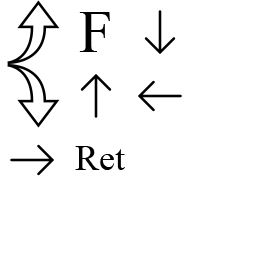
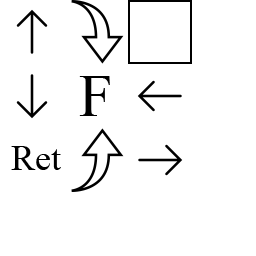
dev

diff --git a/WarBot/AJControlVew.m b/WarBot/AJControlVew.m
@@ -23,6 +23,7 @@
         
         self.available = [NSMutableArray array];
         self.program = [NSMutableArray array];
+        self.intermediateCommand = nil;
         
         self.touchEnabled = YES;
     }
@@ -45,6 +46,12 @@
         CCSprite *commandSprite = [self getCommandSprite: command];
         commandSprite.position = position;
         
+        NSMutableDictionary *commandTMP = [[NSMutableDictionary alloc] initWithCapacity:2];
+        [commandTMP setObject:command forKey:@"command"];
+        [commandTMP setObject:commandSprite forKey:@"sprite"];
+        
+        [self.program addObject:commandTMP];
+        
         [self addChild:commandSprite z:1 tag:1002];
 
     }
@@ -58,7 +65,7 @@
     for (int i = 0; i < prog.count; i++) {
         
         xOffset = (i % DEFAULT_COLS) * DEFAULT_CELL_SIZE + DEFAULT_CELL_SIZE / 2;
-        yOffset = (i / DEFAULT_COLS) * DEFAULT_CELL_SIZE + DEFAULT_CELL_SIZE / 2 + (self.gameManager.programField.commands.count / DEFAULT_COLS + 1) * DEFAULT_CELL_SIZE;
+        yOffset = (i / DEFAULT_COLS) * DEFAULT_CELL_SIZE + DEFAULT_CELL_SIZE / 2 + (self.gameManager.programField.commands.count / DEFAULT_COLS + 1) * DEFAULT_CELL_SIZE + 20;
         
         CGPoint position = ccp(xOffset, yOffset);
         position = [[CCDirector sharedDirector] convertToGL:position];
@@ -107,6 +114,9 @@
     } else if ([command.command isEqualToString:kCommandRet]) {
         commandSprite = [CCSprite spriteWithSpriteFrameName:@"ret.png"];
         
+    } else if ([command.command isEqualToString:kCommandDefault]) {
+        commandSprite = [CCSprite spriteWithSpriteFrameName:@"default.png"];
+        
     } else {
         commandSprite = [CCLayerColor layerWithColor:ccc4(10, 10, 10, 255) width:32 height:32];
 //        commandSprite.anchorPoint = ccp(-1.0, -1.0);
@@ -117,7 +127,11 @@
 }
 
 -(void)update:(ccTime)delta {
-    ;
+    int index = [self.gameManager getCurrentCommandIndex];
+    CCScaleTo *scale1 = [CCScaleTo actionWithDuration:DEFAULT_TIME_INTERVAL / 2 scale:1.2];
+    CCScaleTo *scale2 = [CCScaleTo actionWithDuration:DEFAULT_TIME_INTERVAL / 2 scale:1];
+    
+    [[[self.program objectAtIndex:index] objectForKey:@"sprite"] runAction:[CCSequence actions:scale1, scale2, nil]];
 }
 
 
@@ -133,9 +147,37 @@
     {
         if (CGRectContainsPoint(((CCSprite *)[command objectForKey:@"sprite"]).boundingBox, touchLocationOne))
         {
-            NSLog(@"Found command: %@", [command objectForKey:@"command"]);
+            self.intermediateCommand = [[command objectForKey:@"command"] copy];
+            NSLog(@"Found available command: %@", [command objectForKey:@"command"]);
         }
     }
+    
+    for (NSDictionary *command in self.program)
+    {
+        if (CGRectContainsPoint(((CCSprite *)[command objectForKey:@"sprite"]).boundingBox, touchLocationOne))
+        {
+            if (self.intermediateCommand) {
+                [self.gameManager.programField replaceCommand:[command objectForKey:@"command"] to:self.intermediateCommand];
+                self.intermediateCommand = nil;
+                
+            } else {
+//                self.intermediateCommand = [command objectForKey:@"command"];
+            }
+            NSLog(@"Found program command: %@", [command objectForKey:@"command"]);
+        }
+    }
+    [self removeAllChildrenWithCleanup:YES];
+    [self.program removeAllObjects];
+    [self.available removeAllObjects];
+    
+    CGSize winSize = [[CCDirector sharedDirector] winSize];
+
+    CCLayerColor *background = [CCLayerColor layerWithColor:ccc4(200, 200, 200, 200) width:DEFAULT_CELL_SIZE*DEFAULT_COLS height:winSize.height];
+    
+    [self addChild:background z:-1 tag:1001];
+    
+    [self showProg];
+    [self showAvailable];
 }
 
 

diff --git a/WarBot/AJGameViewController.m b/WarBot/AJGameViewController.m
@@ -7,7 +7,6 @@
 //
 
 #import "AJGameViewController.h"
-#import "AJGameScene.h"
 
 @interface AJGameViewController ()
 
@@ -29,12 +28,12 @@
     [super viewDidLoad];
 //    [[CCDirector sharedDirector] pushScene:[AJGameScene scene]];
     
-    CCScene *scene = [AJGameScene scene];
-    AJGameView *layer = (AJGameView *) [scene.children objectAtIndex:0];
-    UIPanGestureRecognizer *gestureRecognizer = [[UIPanGestureRecognizer alloc] initWithTarget:layer action:@selector(handlePanFrom:)];
-    [self.view addGestureRecognizer:gestureRecognizer];
+    self.gameScene = [AJGameScene scene];
+//    AJGameView *layer = (AJGameView *) [scene.children objectAtIndex:0];
+//    UIPanGestureRecognizer *gestureRecognizer = [[UIPanGestureRecognizer alloc] initWithTarget:layer action:@selector(handlePanFrom:)];
+//    [self.view addGestureRecognizer:gestureRecognizer];
     
-    [[CCDirector sharedDirector] pushScene:scene];
+    [[CCDirector sharedDirector] pushScene:self.gameScene];
 }
 
 - (void)didReceiveMemoryWarning
@@ -51,6 +50,14 @@
 {
     return UIInterfaceOrientationMaskLandscapeLeft |
     UIInterfaceOrientationMaskLandscapeRight;
+}
+
+-(void)pause:(id)sender {
+    [self.gameScene pauseSchedulerAndActions];
+}
+
+-(void)resume:(id)sender {
+    [self.gameScene resumeSchedulerAndActions];
 }
 
 @end

diff --git a/WarBot/Model/AJGameManager.m b/WarBot/Model/AJGameManager.m
@@ -49,12 +49,12 @@
         
         self.availableCommands = [AJAvailableCommands defaultAvailableCommands];
         
-        for (int i = 0; i < DEFAULT_PROGRAM_LENGTH; i++) {
-            int t = arc4random() % [self.availableCommands.availableCommands count];
-            AJCommand *cmd = [self.availableCommands.availableCommands objectAtIndex:t];
-            
-            [self.programField addCommand:cmd atIndex:i];
-        }
+//        for (int i = 0; i < DEFAULT_PROGRAM_LENGTH; i++) {
+//            int t = arc4random() % [self.availableCommands.availableCommands count];
+//            AJCommand *cmd = [self.availableCommands.availableCommands objectAtIndex:t];
+//            
+//            [self.programField addCommand:cmd atIndex:i];
+//        }
     }
     return self;
 }

diff --git a/WarBot/Model/AJProgramField.m b/WarBot/Model/AJProgramField.m
@@ -22,8 +22,8 @@
     if (self) {
         self.commands = [[NSMutableDictionary alloc] initWithCapacity:DEFAULT_PROGRAM_LENGTH];
         
-        AJCommand *defaultCommand = [[AJCommand alloc] init];
         for (int i = 0; i < DEFAULT_PROGRAM_LENGTH; i++) {
+            AJCommand *defaultCommand = [[AJCommand alloc] init];
             [self addCommand:defaultCommand atIndex:i];
         }
     }
@@ -57,6 +57,11 @@
 
 -(void)ret{
     [self.delegate ret];
+}
+
+-(void)replaceCommand:(AJCommand *)cmd1 to:(AJCommand *)cmd2 {
+    NSArray *keys = [self.commands allKeysForObject:cmd1];
+    [self addCommand:cmd2 atIndex:[keys[0] integerValue]];
 }
 
 @end

diff --git a/WarBot/AJGameScene.m b/WarBot/AJGameScene.m
@@ -46,7 +46,7 @@
         [self addChild:self.gameView];
         [self addChild:self.controlView];
         
-//        [self schedule:@selector(update:) interval:DEFAULT_TIME_INTERVAL];
+        [self schedule:@selector(update:) interval:DEFAULT_TIME_INTERVAL];
     }
     
     NSLog(@"%d",[[UIDevice currentDevice] orientation]);
@@ -58,4 +58,11 @@
     [self.controlView update:delta];
 }
 
+-(void)pause {
+    [self pauseSchedulerAndActions];
+}
+
+-(void)resume {
+    [self resumeSchedulerAndActions];
+}
 @end

diff --git a/WarBot/AJGameViewController.h b/WarBot/AJGameViewController.h
@@ -7,6 +7,7 @@
 //
 
 #import "CCViewController.h"
+#import "AJGameScene.h"
 
 @class AJGameViewController;
 
@@ -17,7 +18,11 @@
 @interface AJGameViewController : CCViewController
 
 @property (weak, nonatomic) id <AJGameViewControllerDelegate> delegate;
+@property (nonatomic, strong) CCScene *gameScene;
 
 - (IBAction)reset:(id)sender;
+- (IBAction)pause:(id)sender;
+- (IBAction)resume:(id)sender;
+
 
 @end

diff --git a/WarBot/Model/AJCommand.m b/WarBot/Model/AJCommand.m
@@ -39,4 +39,9 @@
     return [NSString stringWithFormat:@"Command: type - %d, name - %@, param - %@", self.type, self.command, self.param];
 }
 
+-(id)copy {
+    AJCommand *command = [AJCommand commandWithType:self.type command:self.command param:self.param];
+    return command;
+}
+
 @end

diff --git a/WarBot/Model/AJProgramField.h b/WarBot/Model/AJProgramField.h
@@ -29,6 +29,7 @@
 -(AJCommand *)getCurrentCommand;
 -(void) addCommand: (AJCommand *) command atIndex:(int)index;
 -(void) removeCommandAtIndex:(int)index;
+-(void) replaceCommand: (AJCommand *) cmd1 to: (AJCommand *)cmd2;
 
 -(void) jump:(NSNumber *) param;
 -(void) ret;

diff --git a/WarBot/AJControlVew.h b/WarBot/AJControlVew.h
@@ -15,6 +15,7 @@
 @property AJGameManager *gameManager;
 @property NSMutableArray *available;
 @property NSMutableArray *program;
+@property AJCommand *intermediateCommand;
 
 - (void) showProg;
 - (void) showAvailable;

diff --git a/WarBot/Utils/Utils.h b/WarBot/Utils/Utils.h
@@ -21,7 +21,7 @@
 #define DEFAULT_CHASSIS_ENERGY 100;
 #define DEFAULT_FUEL 100;
 
-#define DEFAULT_TIME_INTERVAL 1.0
+#define DEFAULT_TIME_INTERVAL 0.5
 
 #define DEFAULT_COLS 6
 #define DEFAULT_CELL_SIZE 64

diff --git a/WarBot/AJGameScene.h b/WarBot/AJGameScene.h
@@ -20,4 +20,7 @@
 
 +(CCScene *) scene;
 
+-(void) pause;
+-(void) resume;
+
 @end
